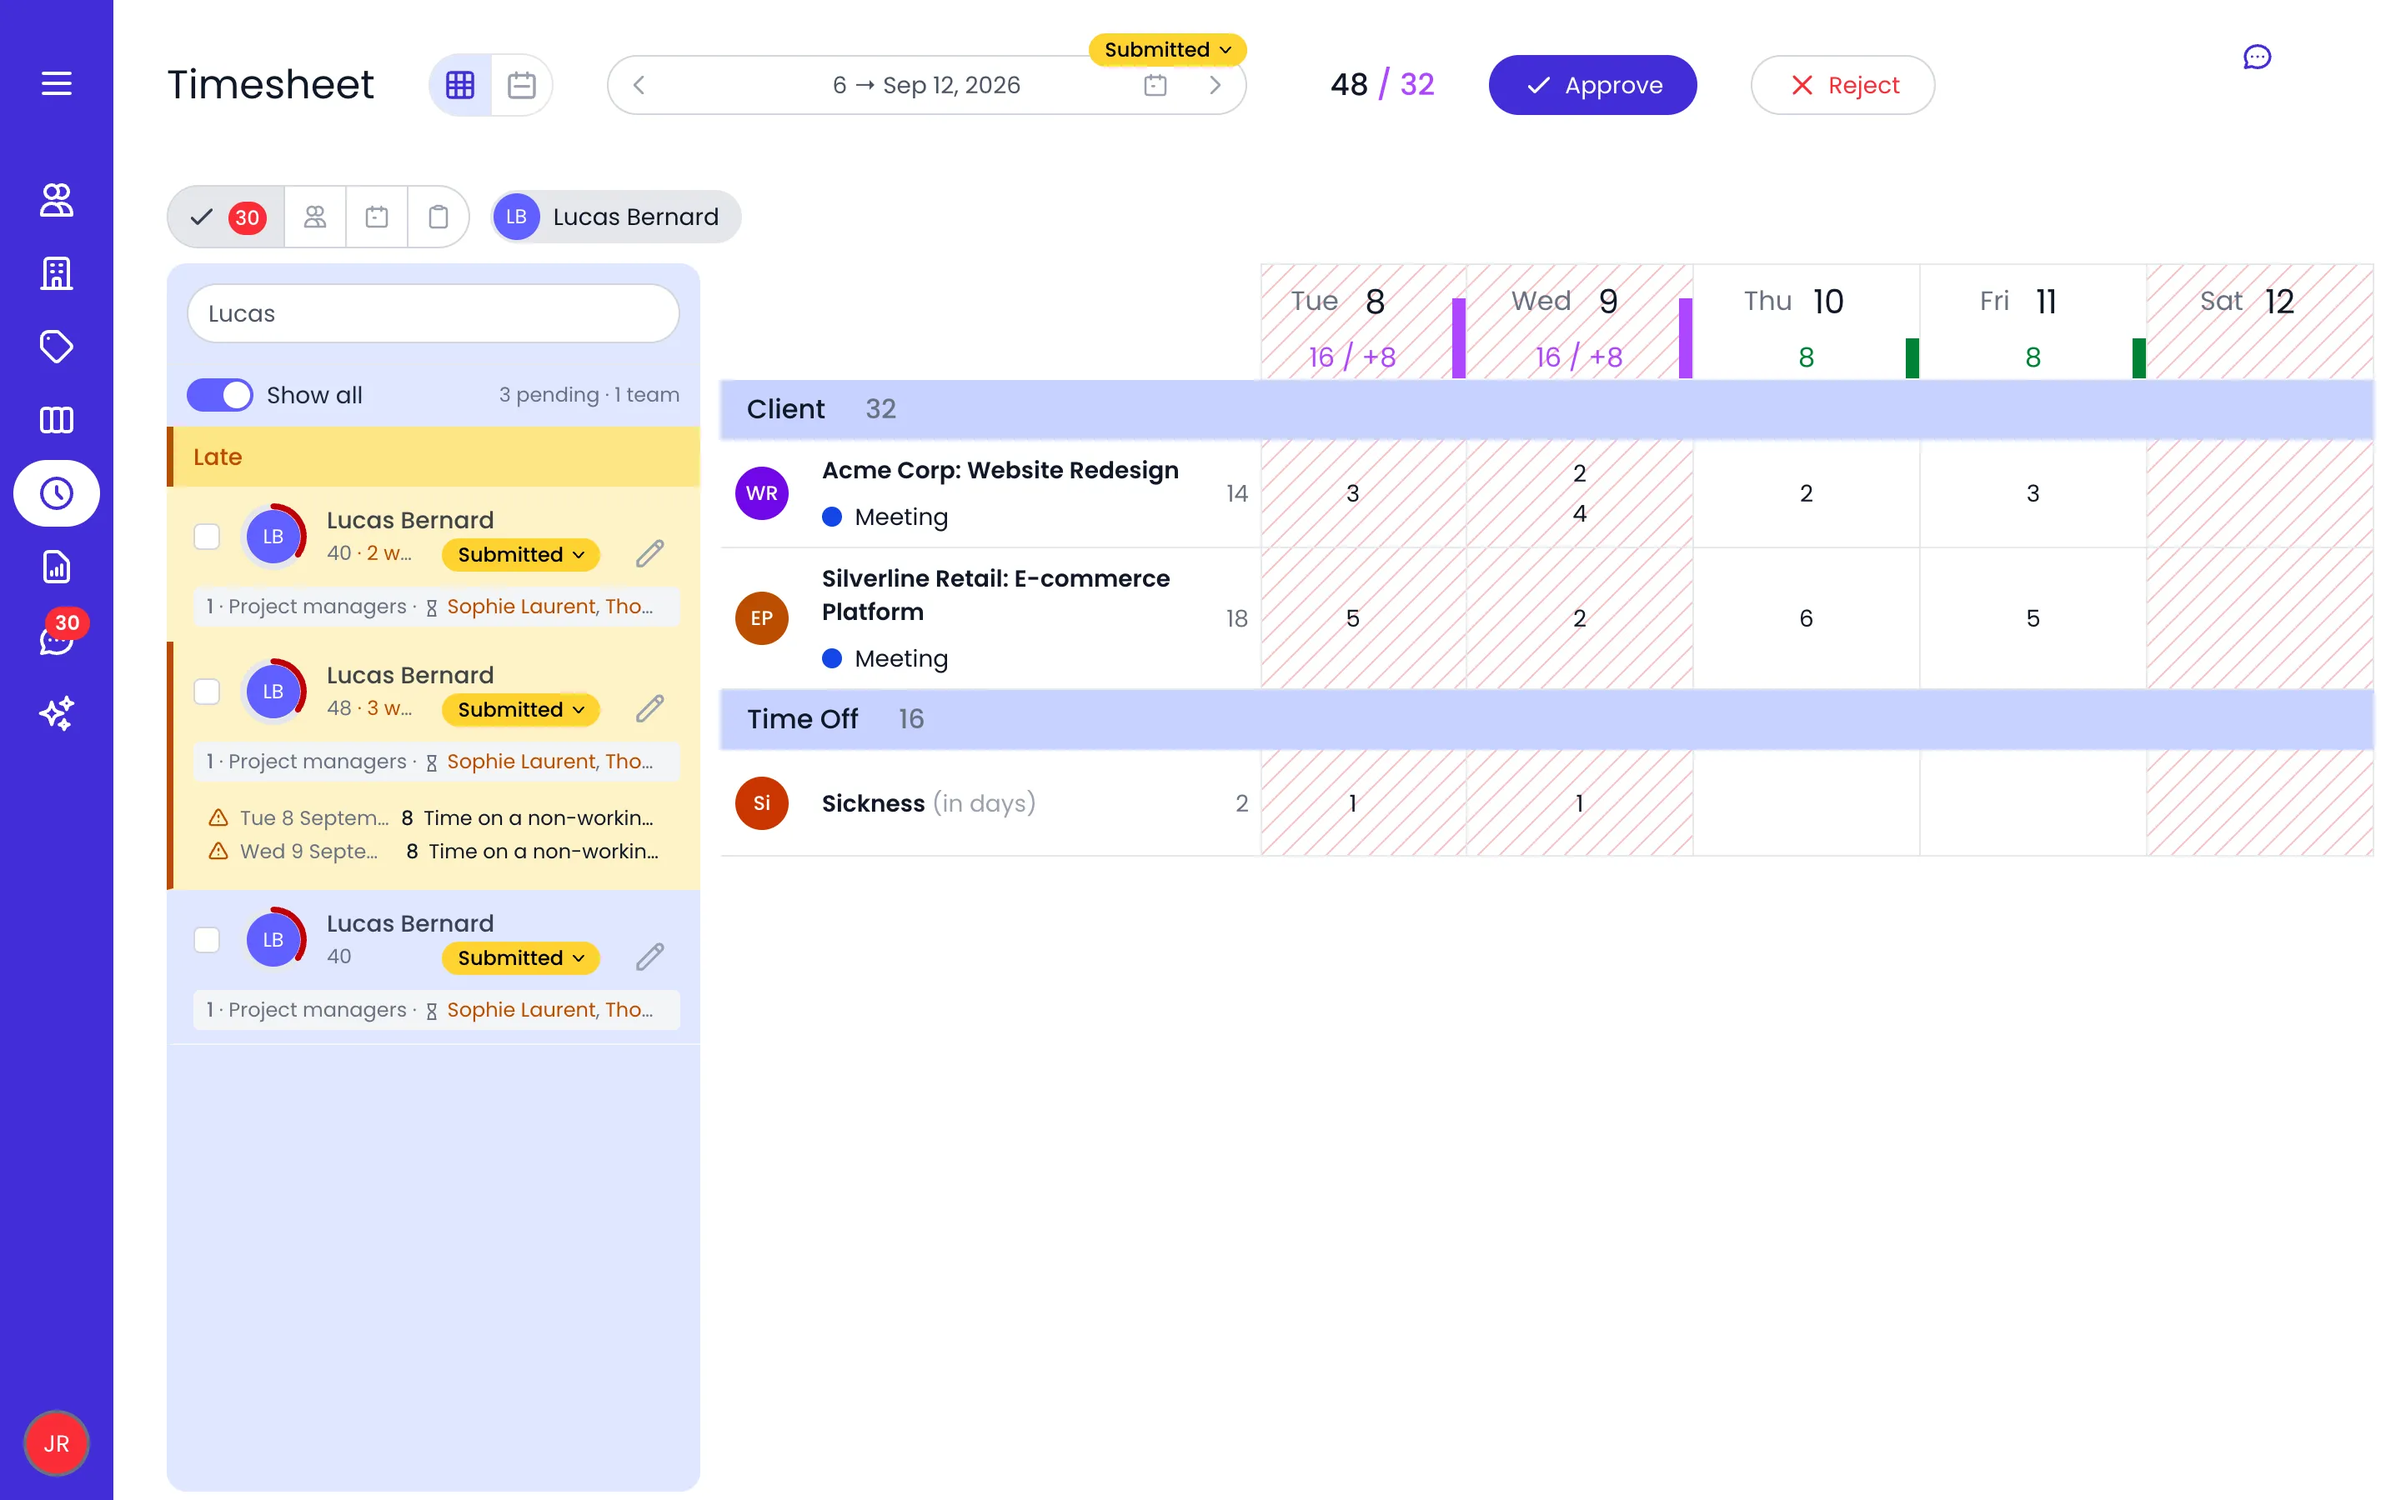
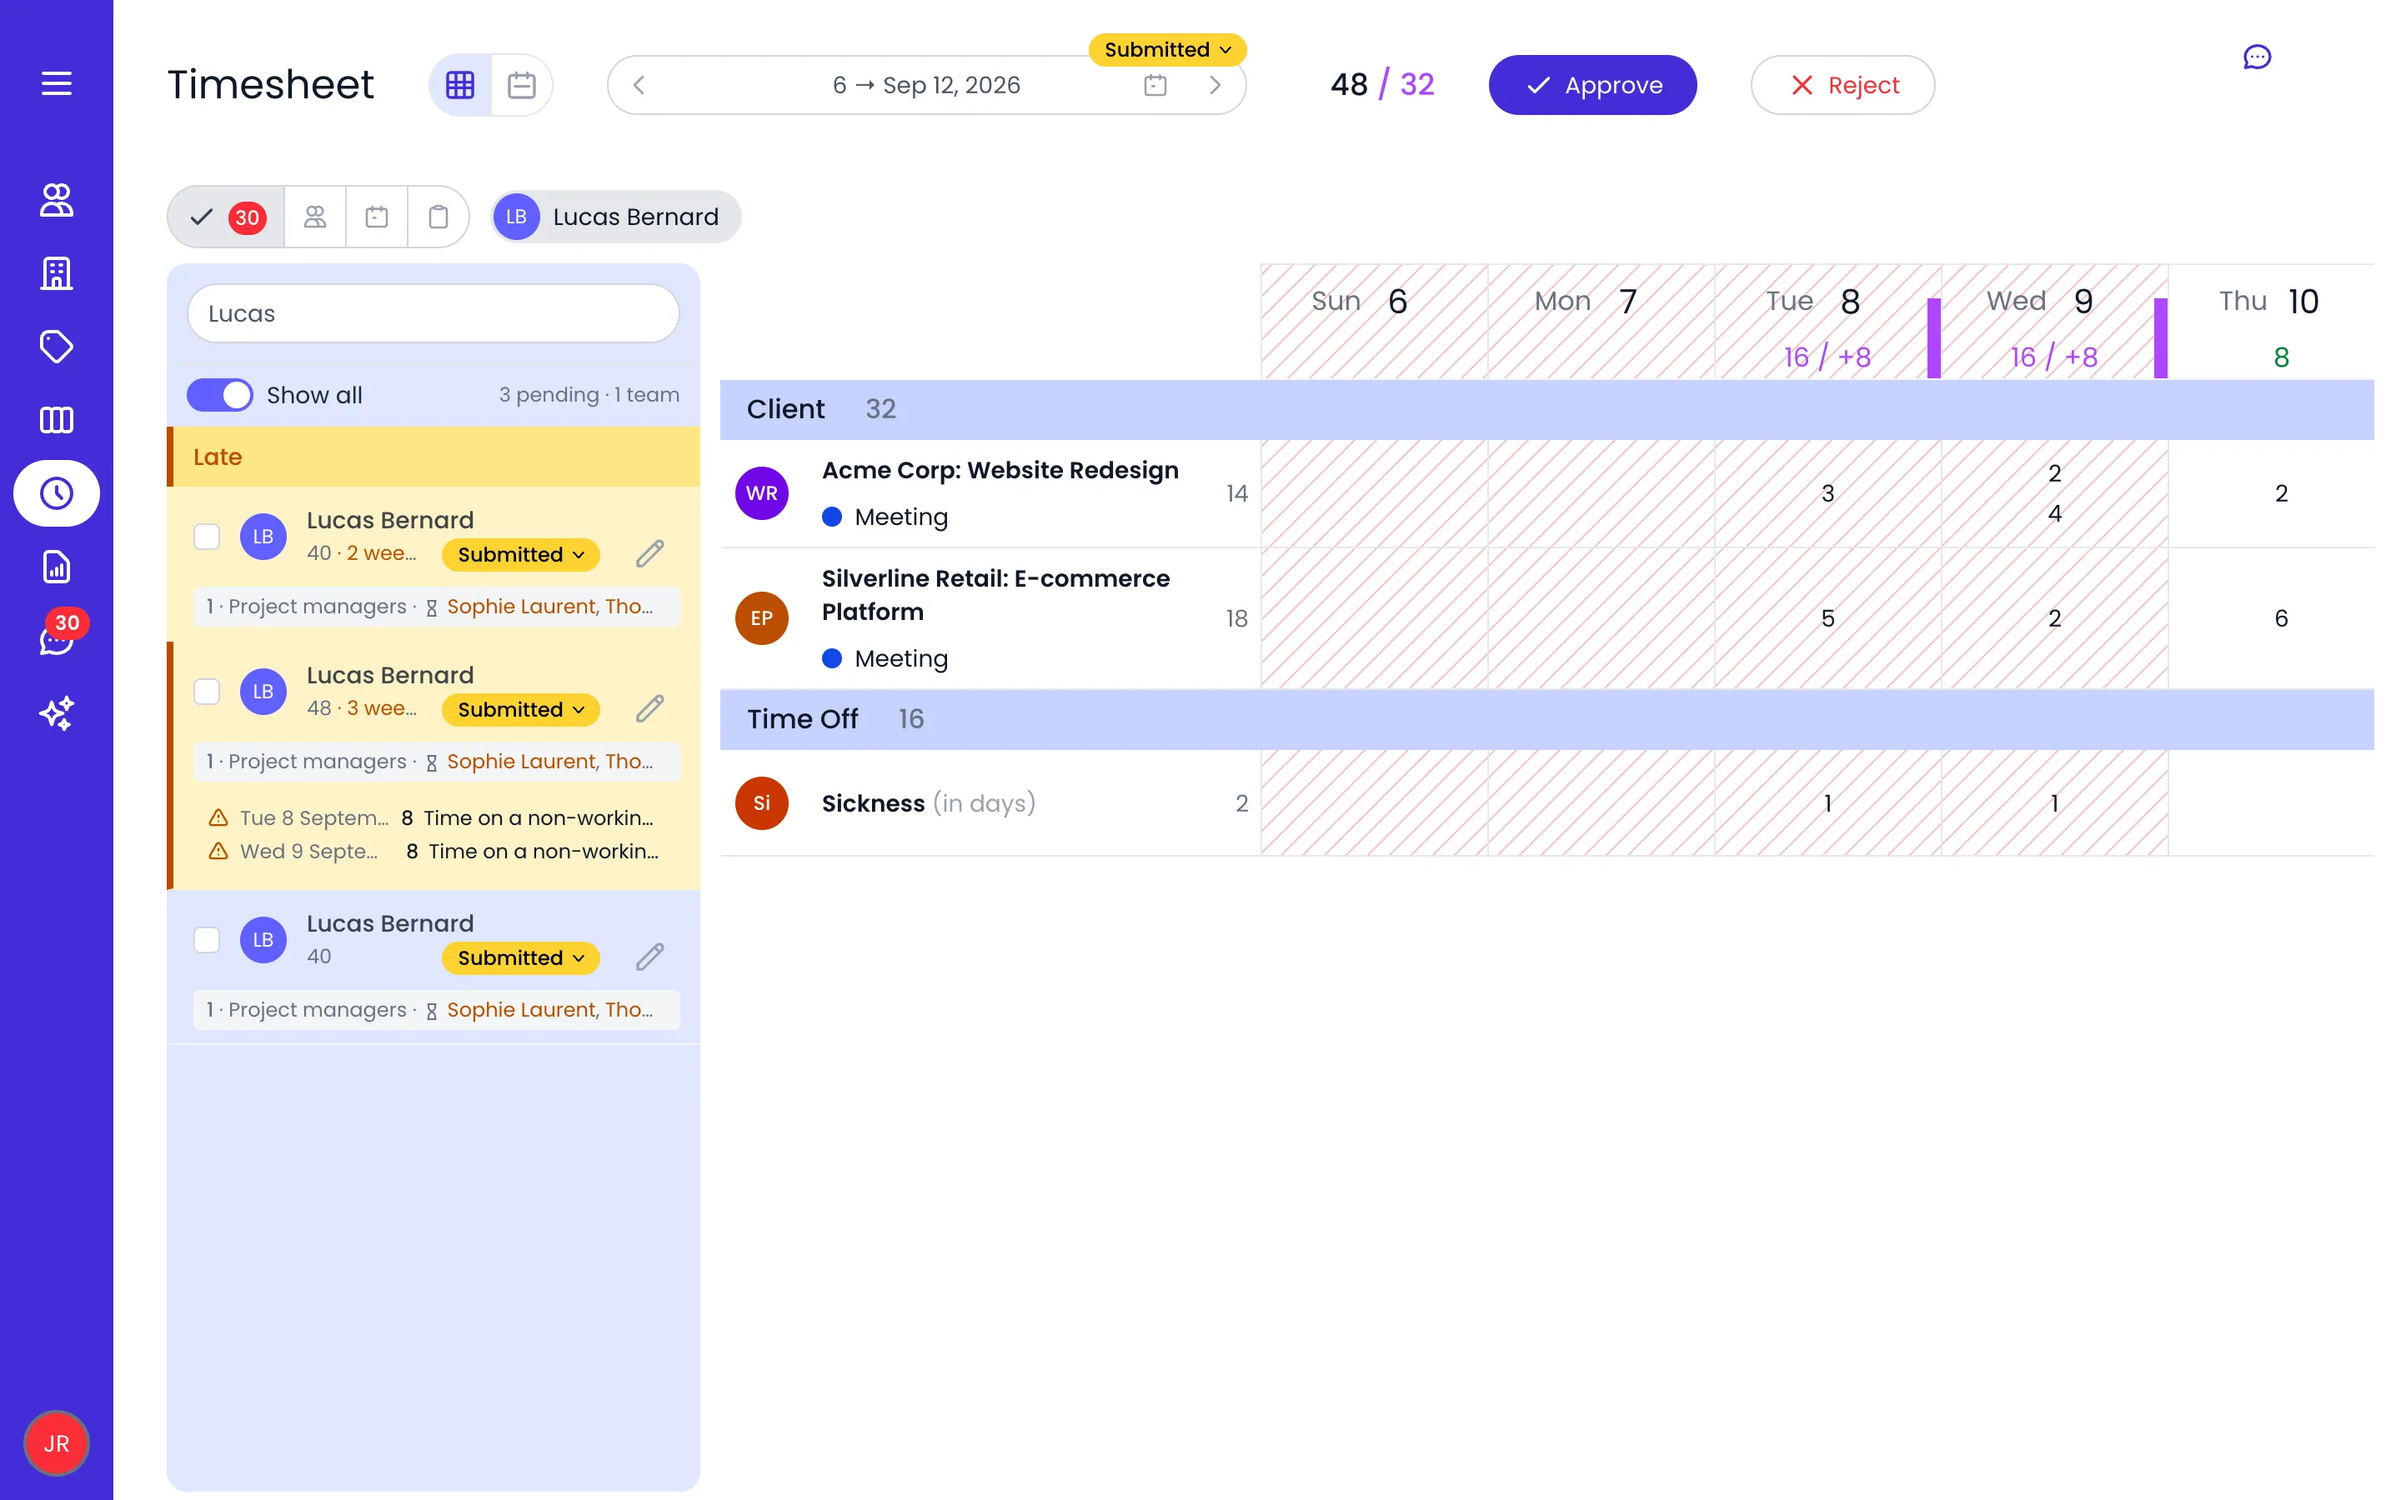
Screenshot batch 2026-10-02 (5): Timesheets pane repair, 17 shots recaptured on 3 pages (#51)
* Timesheets: close the side pane, repair the timer and team-pane scenes, 12 shots recaptured

Jordan Reed's saved view reopens the Team pane, so openLastFullWeek and openCurrentWeek now
close it (before going back a week: closing it returns to the current week). The timer scenes
wait on the grid's row label (the floating timer now prefixes the client's initials), the team
pane waits on the approval badges (the score ring is gone from the app on dev), and the
calendar timer frames the whole week so today's entry is in it on any weekday.

* Approval: exact Team tooltip, 2 shots recaptured without the score rings

* AI: 3 shots recaptured without the score rings

* Inventory: batch 2026-10-02 (5), Timesheets pane repair; score ring entry dropped

---------

diff --git a/.todo/screenshot-needs.md b/.todo/screenshot-needs.md
@@ -99,7 +99,7 @@ _Landing hero already on disk (`index-beebole-documentation.webp`) — no new sc
 | timesheets/timer-running.webp | A row with the timer running and the floating on-screen timer | medium — done (scene `timesheets-timer`, fixture: a running entry created and removed around the capture, 2026-09-29) |
 | timesheets/copy-paste-cluster.webp | The top-left button cluster (copy, paste period, calendar, approval, team) with the Paste Add/Replace prompt | medium — copy button done as a lens `timesheets/copy-button.webp` (scene `timesheets-copy-button`); the Paste prompt done as `timesheets/paste-dialog.webp` (scene `timesheets-paste-dialog`, 2026-09-30). The Paste period button sits below the copy button: page corrected |
 | timesheets/calendar-import-pane.webp | The calendar import pane with Google/Microsoft events listed and a Tracked badge | medium — button done as a lens `timesheets/import-calendar-button.webp` (scene `timesheets-import-calendar-button`); the pane with events needs a connected Google or Microsoft calendar: guided |
-| timesheets/timesheet-score-ring.webp | A team pane avatar with the colored Timesheet score ring and its hover breakdown | low — on hold: approvals exist since 2026-09-29, but every score is low because the history was submitted in one day (see `seed-documentation/README.md`) |
+| timesheets/timesheet-score-ring.webp | A team pane avatar with the colored Timesheet score ring and its hover breakdown | low — dropped 2026-10-02: the score ring was removed from the app on dev (commit `1d01a0372`, 2026-09-29: `bb-timesheet-score` and its labels deleted). Production still shows it until the next release, which should also remove the Timesheet score section of `timesheets.mdx` |
 | timesheets/calendar-view.webp | The calendar view with the favorites bar | high — done (scene `timesheets-calendar-view`, 2026-09-29) |
 | timesheets/row-menu.webp | A row's ⋯ action menu (Pin to top, Edit, Remove row) | done (scene `timesheets-row-menu`, 2026-09-29; found from the page) |
 | timesheets/team-pane.webp | The Team pane with members and their reported time | done (scene `timesheets-team-pane`, 2026-09-29; found from the page) |
@@ -661,8 +661,7 @@ No automatable entry left in the inventory, so the shots came from sections of t
 Found while shooting:
 
 - The `budgets-split-by-person` fixture zeroed Web Portal's budget when it cleared the split type (2026-10-02). The budget was restored on QA (180 h, $30,000, $9,000 cost) and the fixture now writes the amounts back.
-- Jordan Reed's timesheet on QA reopens on the Team pane since about October 1 (a saved view, changed outside the runner). `timesheets/weekly-grid.webp` (captured before) replays changed; shots captured since (`clear-rows-button`, `submit-button`, likely `paste-dialog`) include the open pane. To settle in a session of its own: call `closeSidePane` in `openLastFullWeek` and `openCurrentWeek`, recapture what then changes, and fix `timesheets-team-pane`, whose loose `Team` tooltip search can hit the Approval button.
-- Already broken or changed before this batch, unrelated to the pane: `timesheets-timer`, `timesheets-calendar-timer`, `timesheets-timer-shelf` (the Fleet Tracker row never shows in the current week) and `timesheets/entry-details.webp` (100 % changed).
+- Jordan Reed's timesheet on QA reopens on the Team pane, and the timer scenes and `timesheets/entry-details.webp` were broken or changed: settled in batch 2026-10-02 (5), below.
 - Other pages still describe the way to the settings screens loosely ("initials, then Settings > Custom Fields"): `assignments.mdx`, `billing.mdx`, `custom-fields.mdx`. The path is initials, then Account Settings, then the entry in the Settings menu.
 
 ## Cramped side panels (found 2026-10-02, Yves)
@@ -681,3 +680,14 @@ At its default width (576 px on a 1440 screen) the side panel wraps or clips som
 Full-screen shots that include an open panel (for example `projects/project-settings-panels.webp`) were not reviewed.
 
 Found while recapturing (batch 2026-10-02 (4)): `budgets/budget-status-report.webp` replays changed by 0.9 % (report figures moved with the topped-up time); left for the next `/illustrate --release`.
+
+## Batch 2026-10-02 (5): Timesheets pane repair
+
+No new shot: this batch settled the pane problem found in batch (3). 17 published shots recaptured, every one replays `same`.
+
+- `openLastFullWeek` and `openCurrentWeek` close the side pane. Closing it brings the timesheet back to the current week, so `openLastFullWeek` closes it before going back (that is also why `timesheets-paste-dialog` failed once: it pasted onto an empty week). Every Team lookup uses the exact tooltip `/^Team$/`.
+- The timer scenes (`timesheets-timer`, `timesheets-calendar-timer`, `timesheets-timer-shelf`) wait on the grid's row label: the floating timer now prefixes the client's initials (QL. Fleet Tracker). The calendar timer frames the whole week, so today's entry is in it on any weekday.
+- `timesheets-team-pane` waits on the approval badges: the score ring is gone from QA (see the dropped `timesheet-score-ring` entry).
+- Recaptured: on Timesheets, weekly-grid, entry-details, team-pane, timer-running, calendar-timer-running, timer-shelf, favorites-bar-play, clear-rows-button (top trimmed, width 336), paste-dialog, submit-button, time-off-row, copy-button (timer-shelf width 375). calendar-view, import-calendar-button and row-menu came back identical to their Sep 29 captures. On Approval, pending-pane and edit-timesheet-pencil; on AI, suggested-entries-tray, approval-review-digest and suggestion-forecast-cards (the avatars lost their score rings). `timesheets/add-row-button.webp` (Quickstart) and `integrations/microsoft-calendar-pane.webp` replay `same` again with the pane closed.
+- The seed was topped up (Sep 29 to Oct 1, 142 records) before the capture.
+
